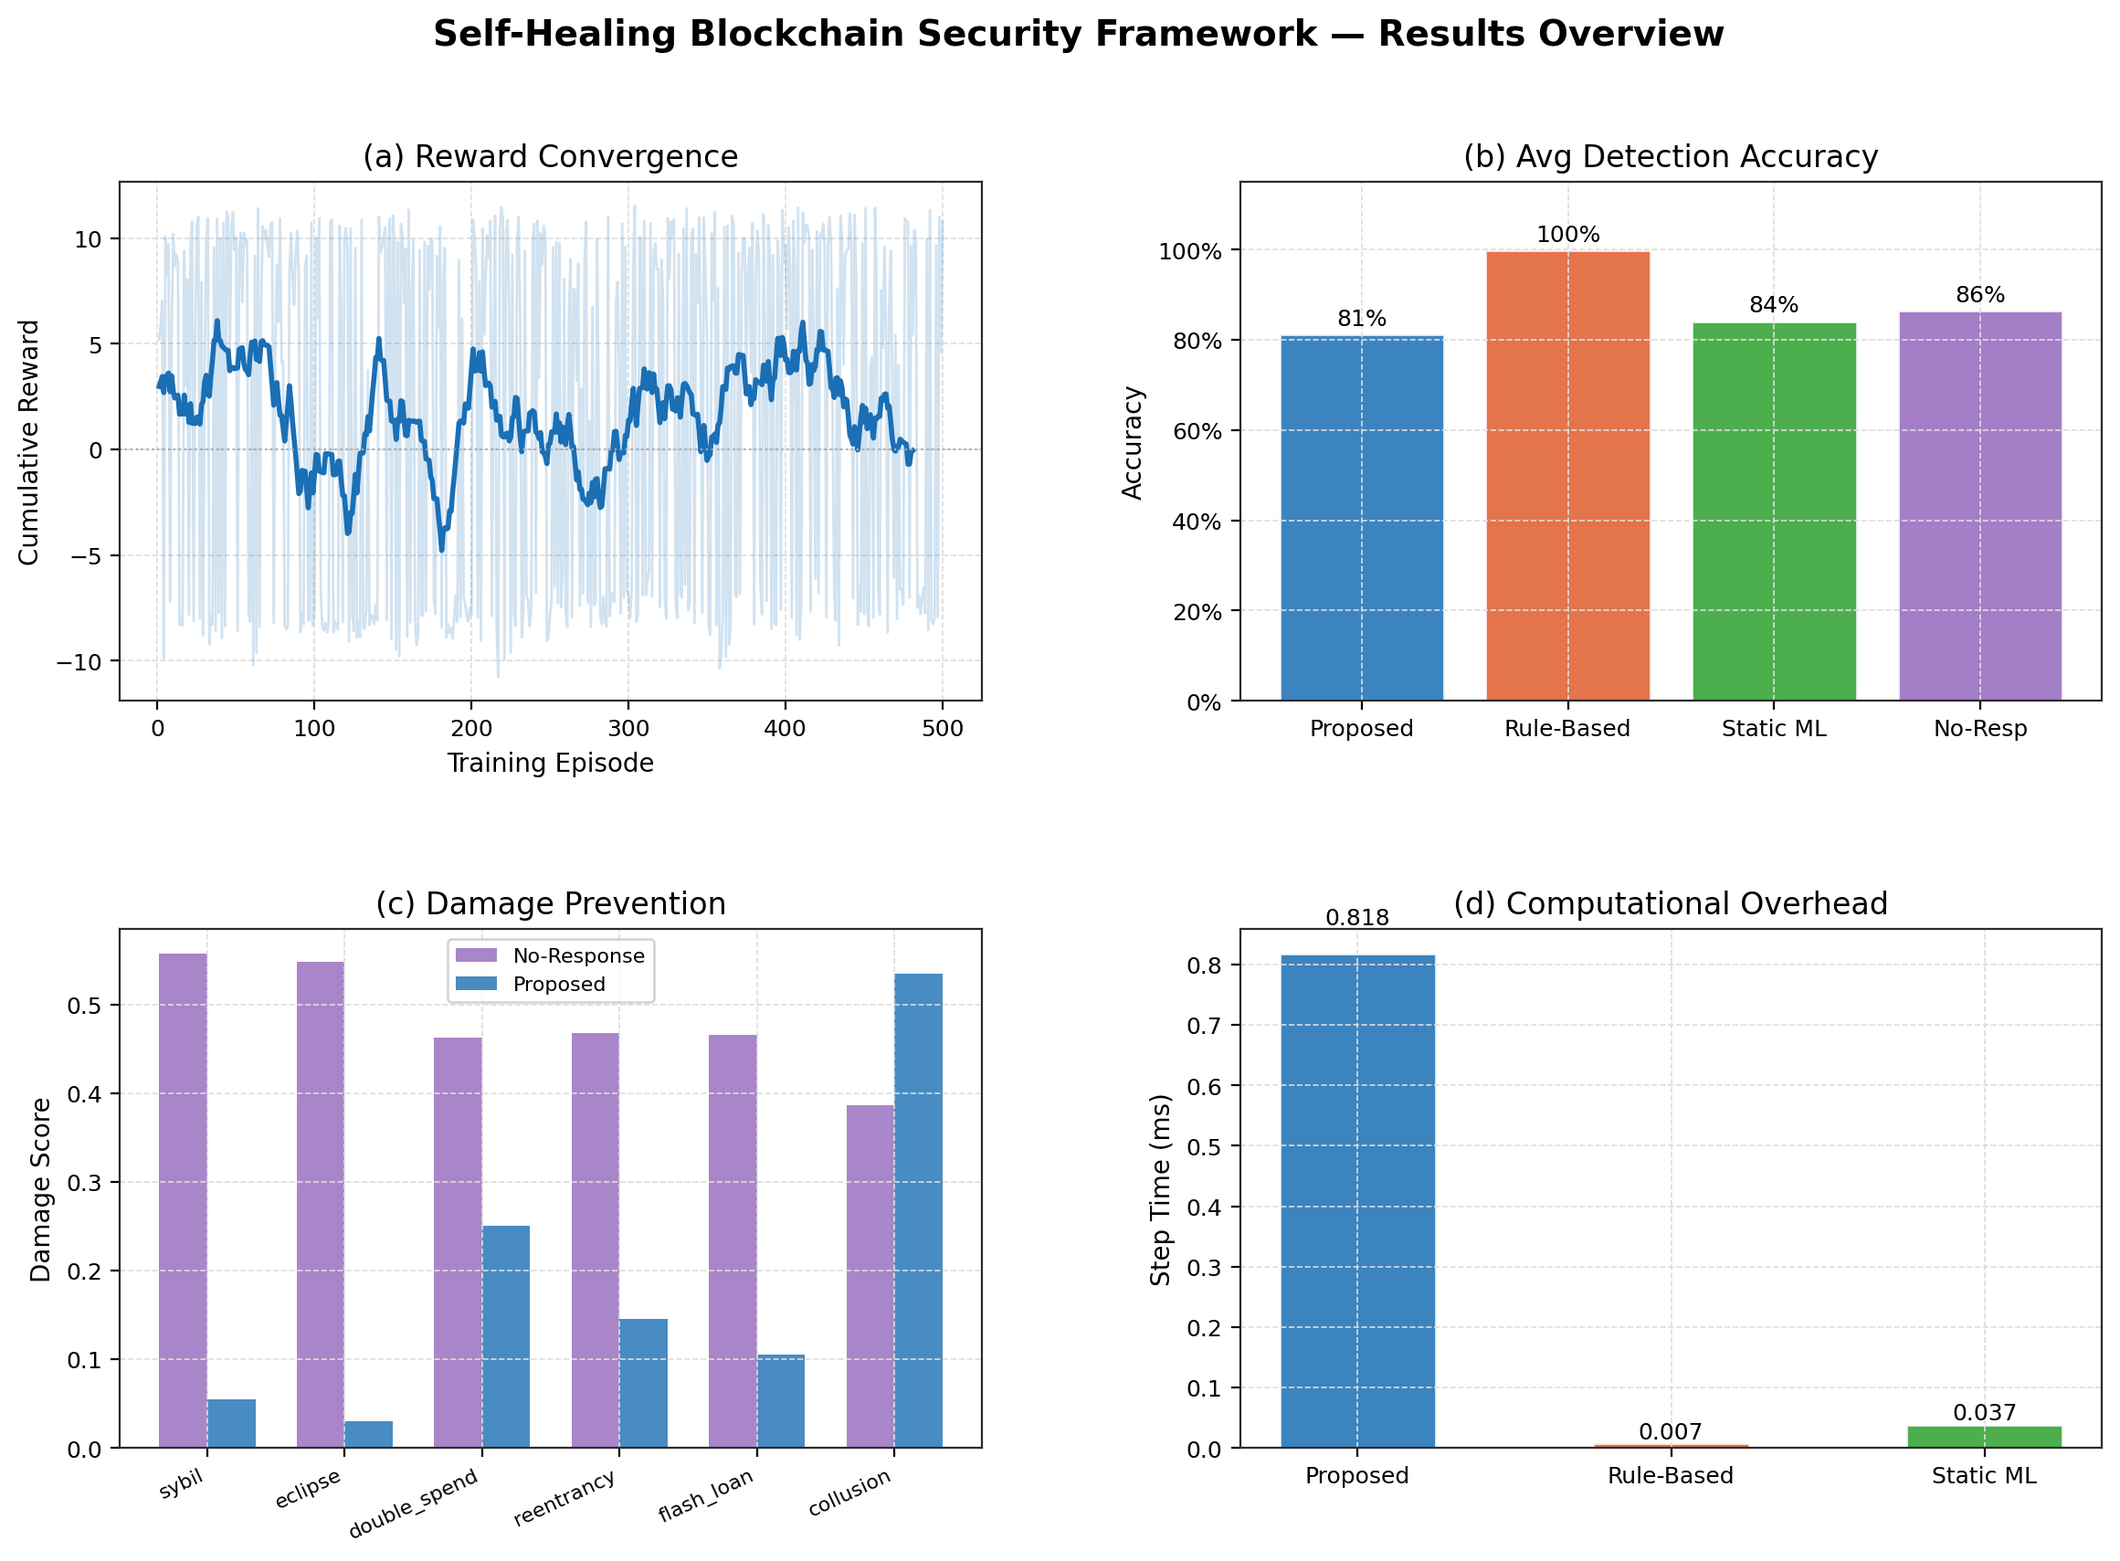
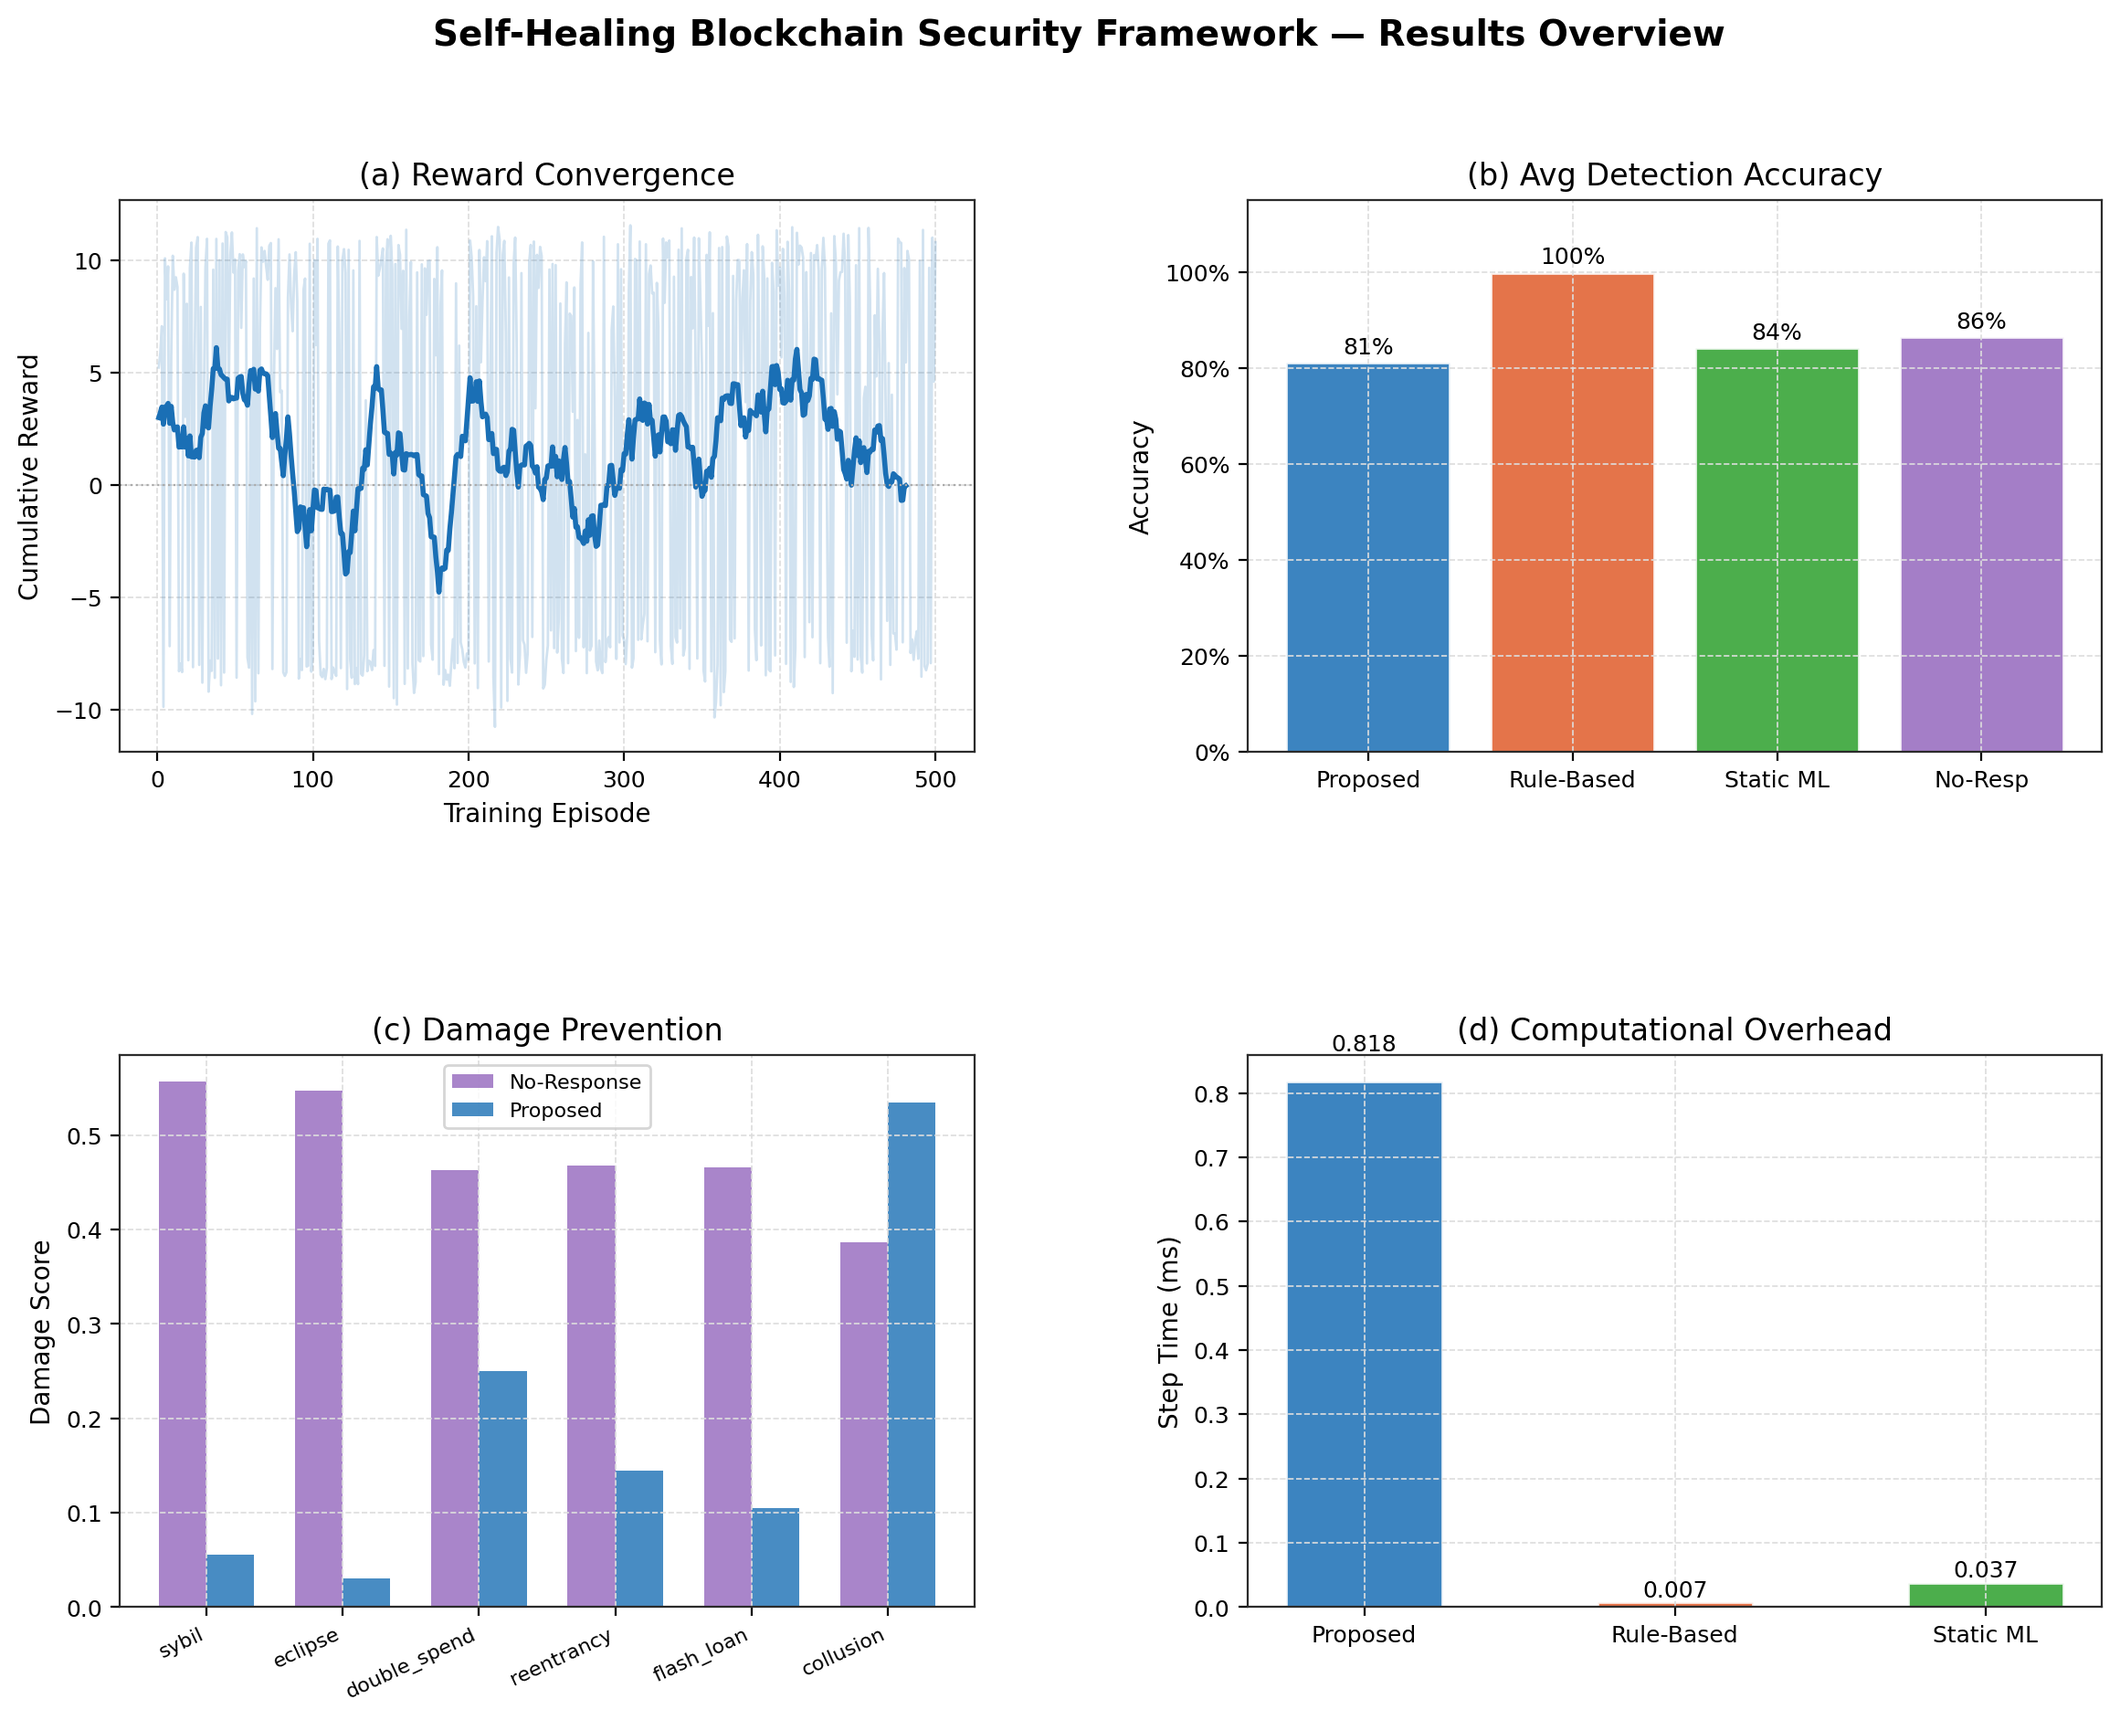
Fixed image issue

diff --git a/visualize.py b/visualize.py
@@ -81,12 +81,12 @@ def load(path: str = config.EXP_DATA_PATH) -> np.lib.npyio.NpzFile:
 # ─────────────────────────────────────────────────────────────────────────────
 
 def fig0_overview(d):
-    fig = plt.figure(figsize=(14, 9))
+    fig = plt.figure(figsize=(14, 10))
     fig.suptitle(
         "Self-Healing Blockchain Security Framework — Results Overview",
-        fontweight="bold", fontsize=14,
+        fontweight="bold", fontsize=14, y=0.98,
     )
-    gs = GridSpec(2, 2, figure=fig, hspace=0.44, wspace=0.30)
+    gs = GridSpec(2, 2, figure=fig, hspace=0.55, wspace=0.32)
 
     # (a) Reward convergence
     ax1  = fig.add_subplot(gs[0, 0])
@@ -190,7 +190,8 @@ def fig1_learning_curve(d):
     ax2b.tick_params(axis="y", labelcolor="#888")
     ax2b.set_ylim(0, 1.05)
 
-    lines  = ax2.get_lines()  + ax2b.get_lines()
+    all_lines = ax2.get_lines() + ax2b.get_lines()
+    lines  = [l for l in all_lines if not l.get_label().startswith("_")]
     labels = [l.get_label() for l in lines]
     ax2.legend(lines, labels, loc="lower right")
     ax2.set_title("(b) Detection Accuracy and ε Decay vs Episodes")
@@ -208,7 +209,7 @@ def fig2_detection(d):
     x       = np.arange(len(attacks))
     w       = 0.20
 
-    fig, ax = plt.subplots(figsize=(12, 5))
+    fig, ax = plt.subplots(figsize=(14, 6))
     fig.suptitle("Fig. 2 — Per-Attack Detection Accuracy Comparison", fontweight="bold")
 
     groups = [
@@ -226,17 +227,19 @@ def fig2_detection(d):
             h = rect.get_height()
             ax.annotate(f"{h:.0%}",
                         xy=(rect.get_x() + rect.get_width()/2, h),
-                        xytext=(0, 2), textcoords="offset points",
-                        ha="center", va="bottom", fontsize=7)
+                        xytext=(0, 3), textcoords="offset points",
+                        ha="center", va="bottom", fontsize=6.5,
+                        rotation=90)
 
     ax.set_ylabel("Detection Accuracy")
     ax.set_xlabel("Attack Type")
     ax.set_xticks(x)
     ax.set_xticklabels(attacks, rotation=20, ha="right")
-    ax.set_ylim(0, 1.18)
+    ax.set_ylim(0, 1.30)
     ax.yaxis.set_major_formatter(mticker.PercentFormatter(xmax=1))
     ax.legend(loc="upper left", ncol=2)
     ax.set_title("Detection accuracy across all attack types and IDS systems")
+    plt.tight_layout(rect=[0, 0, 1, 0.94])
 
     _save(fig, "fig2_detection_accuracy.png")
 
@@ -389,8 +392,9 @@ def fig7_overhead(d):
     ]
     colors = [C["proposed"], C["rule_based"], C["static_ml"]]
 
-    fig, ax = plt.subplots(figsize=(7, 4))
+    fig, ax = plt.subplots(figsize=(7, 5))
     fig.suptitle("Fig. 7 — Computational Overhead per Decision Step", fontweight="bold")
+    fig.subplots_adjust(top=0.80)
 
     bars = ax.bar(labels, values, color=colors, alpha=0.85, edgecolor="white", width=0.5)
     for bar in bars:
@@ -399,9 +403,9 @@ def fig7_overhead(d):
                 f"{h:.4f} ms", ha="center", va="bottom", fontsize=10)
 
     ax.set_ylabel("Step Time (ms)")
+    ax.set_xlabel("Median of 5 runs × 100 steps on commodity hardware")
     ax.set_title(
-        "Wall-clock time per detection + decision + response step\n"
-        "(median of 5 runs × 100 steps on commodity hardware)"
+        "Wall-clock time per detection + decision + response step"
     )
 
     _save(fig, "fig7_overhead.png")
